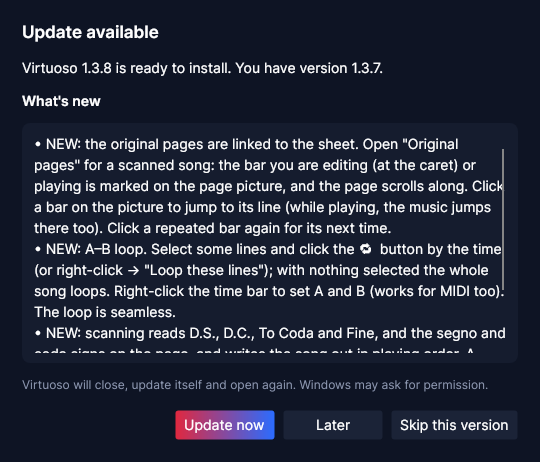
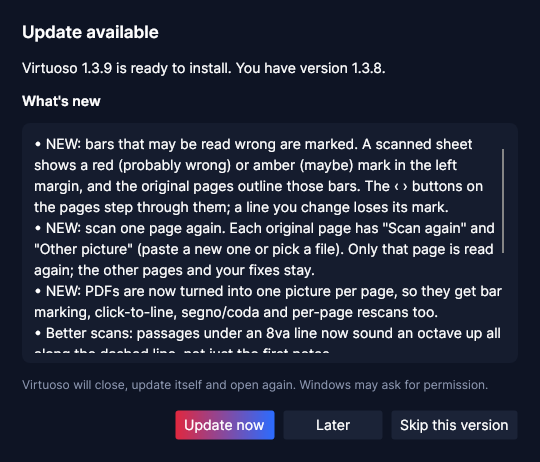
Add files via upload

Changed region(s): [[0.0593, 0.303, 0.9481, 0.7879], [0.1778, 0.1212, 0.7111, 0.1818]]

diff --git a/README.md b/README.md
@@ -36,9 +36,10 @@ Load a sheet or a MIDI file, press **F8** in the game, and listen.
 | 🔄 **Automatic updates** | Virtuoso tells you when a new version is out and installs it in one click. Every update is digitally signed and checked before it runs. |
 | 📂 **Your own folders** | Click **Open folder** and every sheet and MIDI file in it shows up in the list, sub-folders included. Files stay where they are, and new ones appear by themselves. You can also drag files or folders onto the window. |
 | ✨ **Follow along** | While a song plays, the note being played lights up in the sheet and the editor scrolls with it. An on-screen piano shows which keys are pressed. |
-| 📷 **Scan sheet music** <sup>beta</sup> | Cut a page of piano sheet music with <kbd>Win</kbd>+<kbd>Shift</kbd>+<kbd>S</kbd> and press <kbd>Ctrl</kbd>+<kbd>V</kbd> in Virtuoso — or drop images or a PDF on the window. Virtuoso reads the notes, D.S./D.C./Coda jumps included, and writes a sheet you can play right away. The original pages sit beside the editor: the bar being edited or played is marked on them, and clicking a bar jumps to its line. |
+| 📷 **Scan sheet music** <sup>beta</sup> | Cut a page of piano sheet music with <kbd>Win</kbd>+<kbd>Shift</kbd>+<kbd>S</kbd> and press <kbd>Ctrl</kbd>+<kbd>V</kbd> in Virtuoso — or drop images or a PDF on the window. Virtuoso reads the notes, D.S./D.C./Coda jumps, 8va lines and tempo changes included, and writes a sheet you can play right away. The original pages sit beside the editor: the bar being edited or played is marked on them, clicking a bar jumps to its line, bars that may be read wrong are marked in red or amber, and any page can be scanned again on its own. |
 | ⏩ **Seek** | Click or drag on the progress bar to jump anywhere in the song — also while it plays into the game. |
-| 🔁 **Loop a part** | Select some lines and click 🔁 to play them over and over, seamlessly — or right-click the time bar to set A and B. Nothing selected loops the whole song. |
+| 🔁 **Loop a part** | Select some lines and click 🔁 to play them over and over, seamlessly — or right-click the time bar to set A and B, or press <kbd>F4</kbd> twice from the game. Nothing selected loops the whole song. |
+| 🤲 **One hand** | Let Virtuoso play only the right or the left hand (split at middle C) and play the other one yourself. |
 | 🤝 **Share with a friend** | Link a folder you both sync (Google Drive, OneDrive…): sheets you scan into it show up in your friend's Virtuoso by themselves, original pages included. |
 | 🔊 **Listen first** | The speaker button plays the song through your speakers, without sending any keys to the game. |
 | 🧾 **MusicXML** | Import `.musicxml` / `.mxl` files from MuseScore, Finale, Sibelius and others; repeats and 1st/2nd endings are written out. |
@@ -83,6 +84,7 @@ Load a sheet or a MIDI file, press **F8** in the game, and listen.
 | <kbd>F9</kbd> | Stop |
 | <kbd>F6</kbd> | Slower |
 | <kbd>F7</kbd> | Faster |
+| <kbd>F4</kbd> | Loop A–B: first press marks A, second marks B and loops, third stops |
 
 The hotkeys work while the game is in front and are not passed on to the game.
 
@@ -100,7 +102,9 @@ Inside Virtuoso:
 
 Right-click a line in the sheet editor and choose **Play from this line** to start there.
 
-**Loop a part:** select the lines in the editor and click the 🔁 button next to the time (or right-click → **Loop these lines**). With nothing selected, the whole song loops. You can also right-click the time bar and choose **Loop from here (A)** / **Loop up to here (B)** — this works for MIDI files too. Click 🔁 again to stop looping.
+**Loop a part:** select the lines in the editor and click the 🔁 button next to the time (or right-click → **Loop these lines**). With nothing selected, the whole song loops. You can also right-click the time bar and choose **Loop from here (A)** / **Loop up to here (B)** — this works for MIDI files too — or, from inside the game, press <kbd>F4</kbd> at A and again at B. Click 🔁 (or press <kbd>F4</kbd>) again to stop looping.
+
+**One hand:** set **Hands** to **Right hand** or **Left hand** and Virtuoso plays only those notes (from middle C up is the right hand), so you can play the other hand yourself.
 
 ## 📷 Scanning sheet music (beta)
 
@@ -109,11 +113,13 @@ Right-click a line in the sheet editor and choose **Play from this line** to sta
 3. Press **Scan**. It takes about 10–30 seconds per page. Title and tempo are read from the sheet; you can also type them.
 4. The new sheet opens in the editor with the **Original pages** beside it. Press the 🔊 button to listen, and fix what sounds wrong.
 5. The bar you are editing — or playing — is marked on the original pages. Click a bar on a page to jump to its line in the editor (while playing, the music jumps there too).
+6. Bars that may have been read wrong have a **red** (probably) or **amber** (maybe) mark in the editor's left margin and an outline on the page. Step through them with the **‹ ›** buttons above the pages; a line you change loses its mark.
+7. A page came out badly? Click **Scan again** above it, or **Other picture** to paste or pick a clearer one. Only that page is read again — your fixes on the other pages stay.
 
 The first scan downloads the scanner once (about 69 MB, plus 23 MB to read titles and tempo marks). It is [Audiveris](https://github.com/Audiveris/audiveris), free open-source music recognition, and everything runs on your computer — no pages are uploaded anywhere.
 
 > [!TIP]
-> Results are best with clean, straight pages of printed piano music: a full-width screenshot or a PDF works better than a photo taken at an angle. Notes usually come out right; the rhythm can still be off in a few bars. D.S., D.C., To Coda, Fine and the segno/coda signs are read, and the song is written out in playing order (a note at the top of the sheet says what was found). Linking bars to the pages works for pictures, not PDFs yet.
+> Results are best with clean, straight pages of printed piano music: a full-width screenshot or a PDF works better than a photo taken at an angle. Notes usually come out right; the rhythm can still be off in a few bars. D.S., D.C., To Coda, Fine and the segno/coda signs are read, and the song is written out in playing order (a note at the top of the sheet says what was found). 8va lines are followed to their end, and tempo marks printed later in the song (and rit. / accel. / a tempo) change the tempo there. PDFs are turned into one picture per page, so everything above works for them too.
 
 ## 🤝 Sharing songs with a friend
 
@@ -225,6 +231,15 @@ In `%AppData%\Virtuoso\Songs`. Click **Open folder** in the app to go there. Uni
 Virtuoso does not collect or send any personal data. The only internet access is the update check, which downloads release information from this page, and — only when you scan sheet music for the first time — the download of the scanner from this page. Scanning itself runs entirely on your computer.
 
 ## 📝 Changelog
+
+**1.3.9** — bars to check, rescanning a page, PDFs, one hand
+- Bars that may have been read wrong are marked (red: probably, amber: maybe) in the editor and on the original pages, with ‹ › to step through them. A corrected line loses its mark.
+- Scan one page again, from the same picture or another one; the other pages and your fixes stay.
+- PDFs become one picture per page: bar marking, click-to-line, segno/coda and per-page rescans work for them too.
+- 8va lines now apply all along their dashed line (they used to stop after the first notes).
+- Tempo changes inside a scanned song: later tempo marks, rit. / accel. / a tempo.
+- **Hands**: play only the right or the left hand.
+- <kbd>F4</kbd>: loop A–B from inside the game.
 
 **1.3.8** — pages linked to the sheet, loops, D.S./Coda
 - The original pages of a scanned song follow the sheet: the bar at the caret, or being played, is marked on its page and the page scrolls along. Click a bar on a page to jump to its line (also while playing); click a repeated bar again for its next time.
